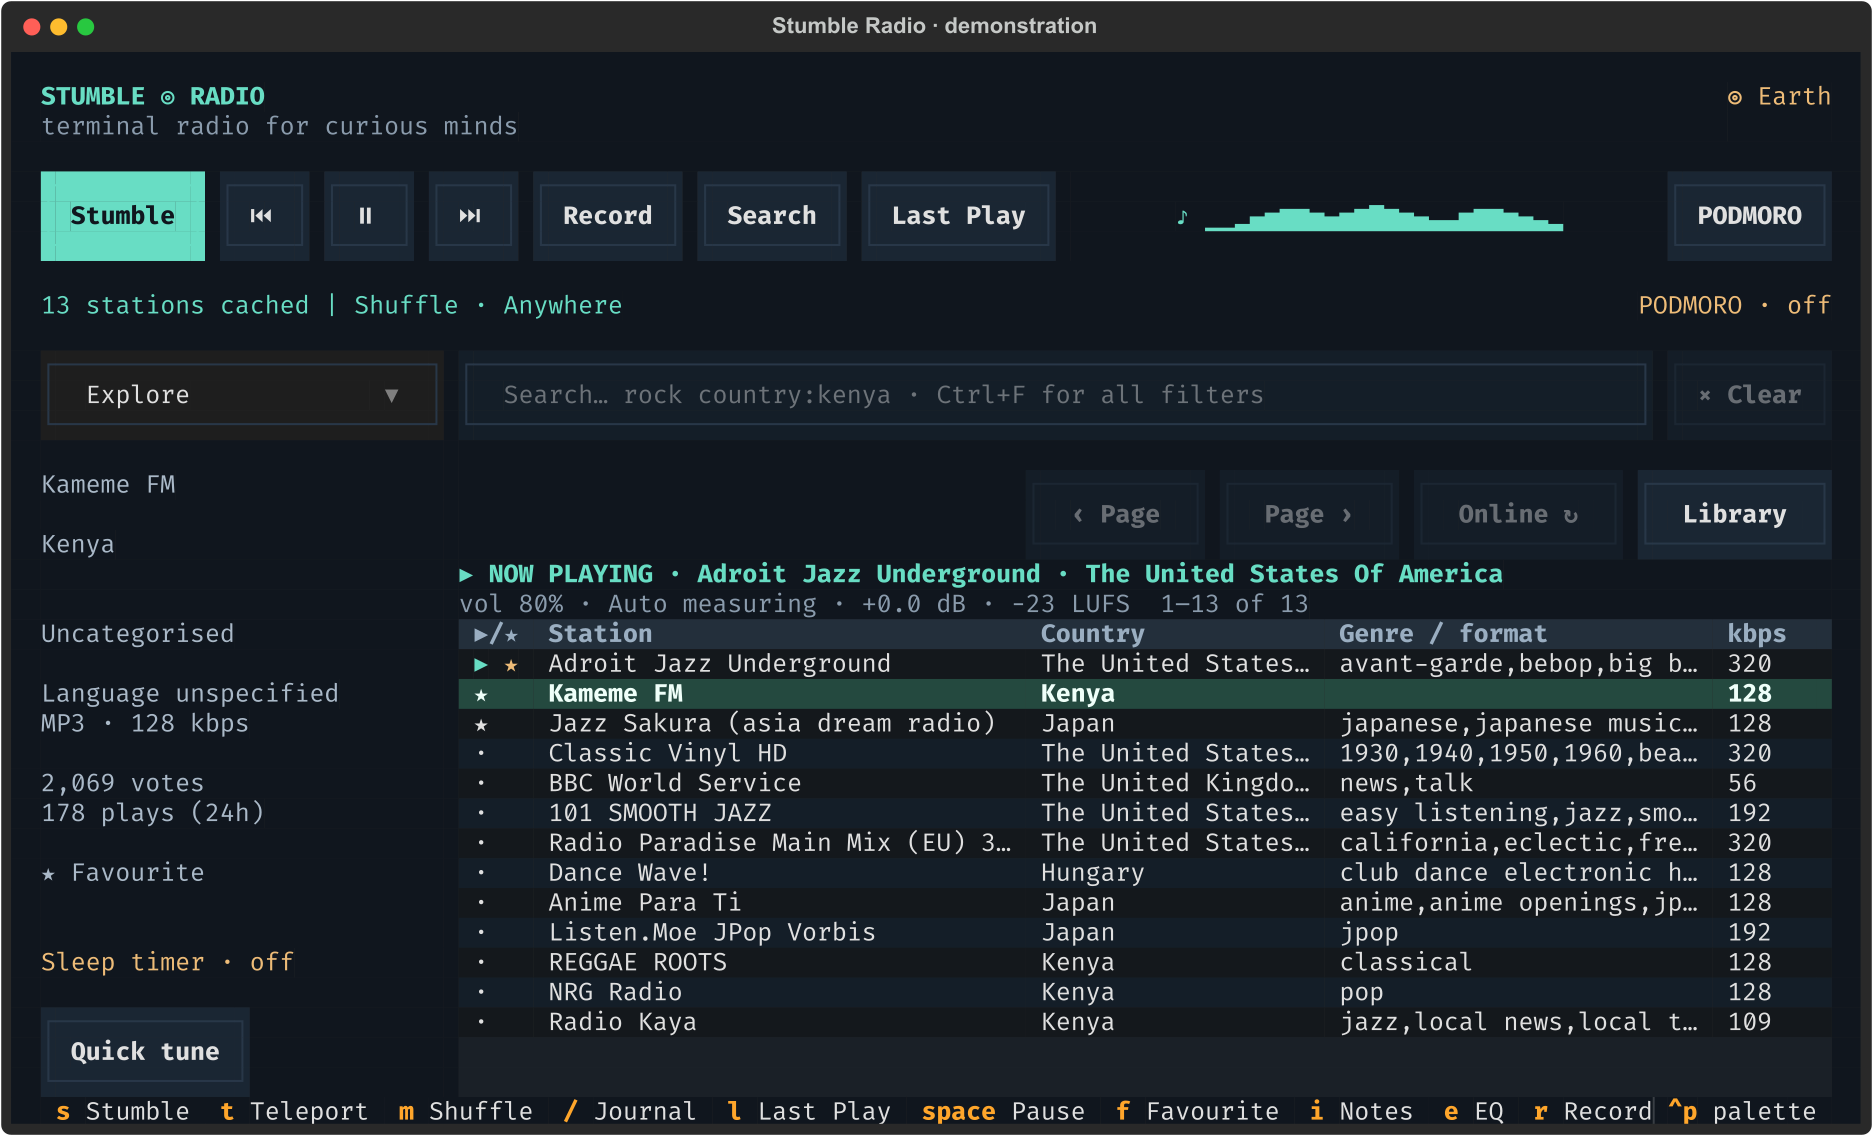
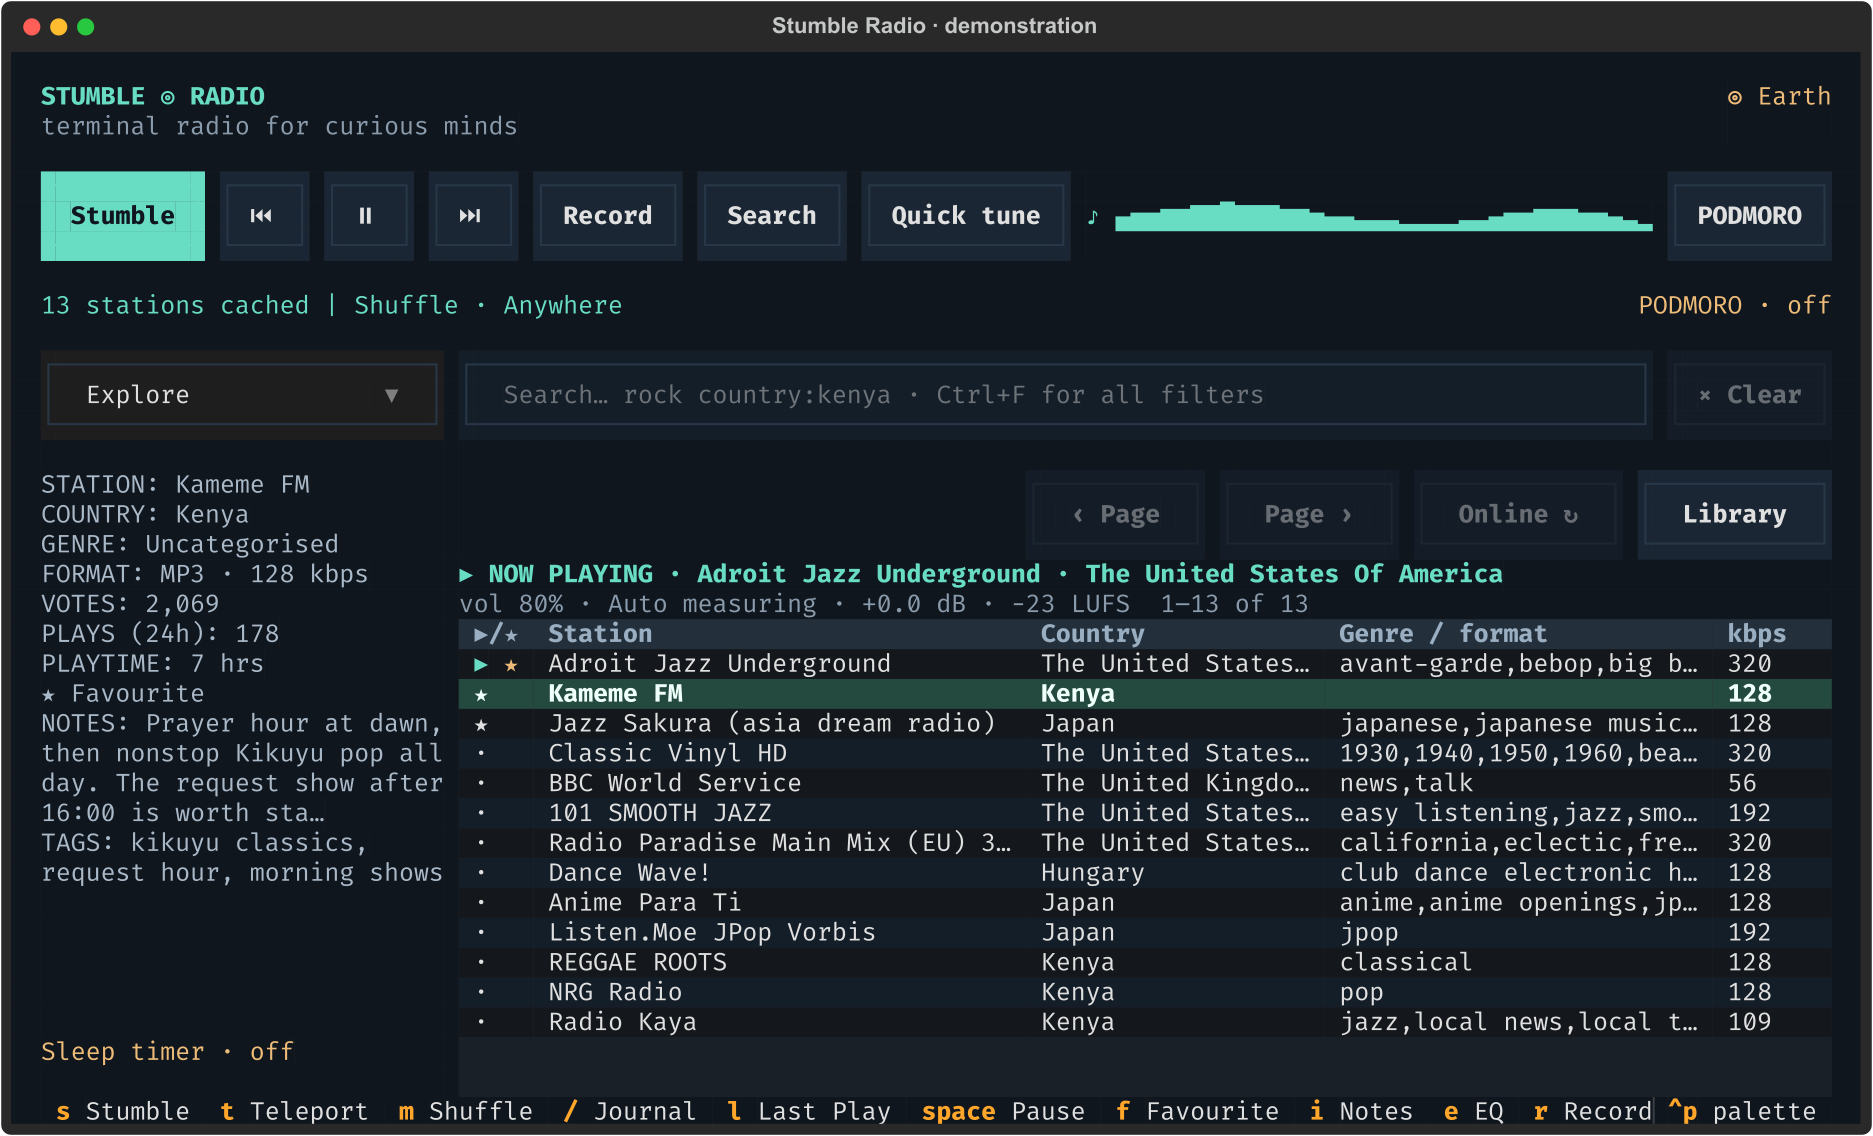
docs(docs): update screenshots and document gapless switching and auto-leveling
Refresh all 25 UI screenshots to reflect current interface. Add
documentation for gapless station switching with loading/buffering
indicators, and clarify that Reset enables automatic leveling.

diff --git a/docs/playback.md b/docs/playback.md
@@ -9,6 +9,11 @@ Screenshots show the actual interface with real stations and demonstration liste
 Use the top controls or keyboard shortcuts. The centre media icon switches between Play and Pause; the bottom panel follows the playing station while you browse.
 Quick tune sits beside Search, while PODMORO is right aligned; Last Play stays one keypress away with `l` or `Ctrl+L`. On narrow terminals, PODMORO moves to the right side of the second control row.
 
+Switching stations is gapless: while the new channel buffers in a second player, the
+current one keeps playing, and the swap only happens once the next stream can start.
+The status bar shows a right-handed `loading…` spinner while this transfer is under
+way, and the same slot reports `buffering…` when mpv pauses for cache.
+
 ## Controls
 
 Single-letter shortcuts apply outside text fields. When typing into an input,
@@ -21,7 +26,7 @@ station list. `Ctrl+Q` quits even while an input has focus.
 | `t` | Teleport to a random country and station |
 | `m` | Cycle the session shuffle pool |
 | `/` | Open listening journal, stats, and radio passport |
-| `l` / `Ctrl+L` | Open Last Play Search (also the Last Play button); Ctrl+L works inside inputs |
+| `l` / `Ctrl+L` | Open Last Play Search; Ctrl+L works inside inputs |
 | `Ctrl+F` | Open advanced search (also the Search button) |
 | `Ctrl+G` | Set preferred language, location, and recovery timeout |
 | `Ctrl+O` | Open the right-aligned PODMORO scheduler button |
@@ -74,7 +79,7 @@ all stations, including after changing stations, reconnecting, or restarting.
   presets change the EQ bands while keeping your gain setting. Band settings that
   do not match a preset show **Custom**.
 - **Bypass** temporarily disables both EQ and gain without losing their values.
-  **Reset** enables processing with flat bands and zero gain.
+  **Reset** enables processing with flat bands, zero gain, and automatic leveling.
 
 Changes preview live after a 200 ms pause in editing. **Save** or **Ctrl+S** keeps
 the setup; **Cancel** or **Escape** restores the sound from when you opened the

diff --git a/docs/getting-started.md b/docs/getting-started.md
@@ -6,7 +6,7 @@ Screenshots show the actual interface with real stations and demonstration liste
 
 ![Stumble Radio playing a station, with transport controls, station browser and now-playing information](images/player.png)
 
-The station list is in the centre, details are on the left, and playback stays visible along the bottom.
+The station list is in the centre, details are on the left, and playback stays visible along the bottom. The details pane labels every property — `STATION:`, `COUNTRY:`, `GENRE:`, `FORMAT:`, `VOTES:`, `PLAYTIME:` and your `NOTES:` + `TAGS:` for the highlighted channel, with `PLAYTIME: Never played` appearing for stations you have never listened to.
 
 ## Quick install
 
